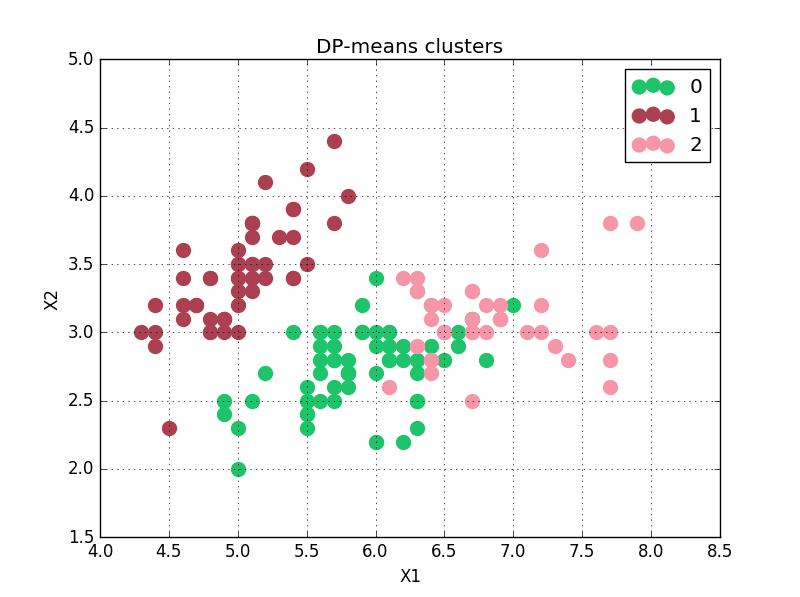
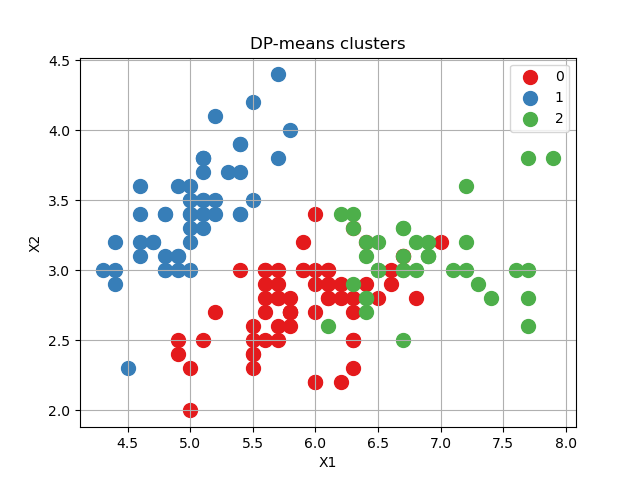
Updated to latest Python version (3.11.2)
Tested with numpy==1.23.5, matplotlib==3.7.1, scikit-learn==1.2.2

diff --git a/python/dpmeans.py b/python/dpmeans.py
@@ -1,5 +1,6 @@
 from sklearn.datasets import load_iris
 import numpy as np
+import matplotlib as mpl
 import matplotlib.pyplot as plt
 import time
 
@@ -37,7 +38,7 @@ class dpmeans:
         mu = np.zeros((k,d))        
         dist = np.inf*np.ones(n)
                 
-        mu[0,:] = X[np.ceil(np.random.rand()*n-1),:]
+        mu[0,:] = X[np.ceil(np.random.rand()*n-1).astype(int),:]
         for i in range(1,k):
             D = X-np.tile(mu[i-1,:],(n,1))
             dist = np.minimum(dist, np.sum(D*D,1))
@@ -55,7 +56,7 @@ class dpmeans:
         
         obj = np.zeros(max_iter)
         em_time = np.zeros(max_iter)
-        print 'running dpmeans...'
+        print('running dpmeans...')
         
         for iter in range(max_iter):
             tic = time.time()
@@ -140,12 +141,13 @@ class dpmeans:
 
     def generate_plots(self,X):
 
+        cmap = mpl.colormaps['Set1']
         plt.close('all')
         plt.figure(0)
         for kk in range(self.K):
             #idx = np.where(self.z == kk)
             plt.scatter(X[self.z == kk,0], X[self.z == kk,1], \
-                        s = 100, marker = 'o', color = np.random.rand(3,1), label = str(kk))
+                        s = 100, marker = 'o', color = cmap(kk), label = str(kk))
         #end for
         plt.xlabel('X1')
         plt.ylabel('X2')
@@ -173,19 +175,19 @@ class dpmeans:
                             
     def display_params(self):
         
-        print 'K = %d'% self.K
-        print 'd = %d'% self.d
-        print 'Labels:'
-        print self.z
-        print 'Means:'
-        print self.mu
-        print 'Sigma:'
-        print self.sigma
-        print 'Counts:'
-        print self.nk
-        print 'Proportions:'
-        print self.pik
-        print 'Lambda: %.2f'% self.Lambda
+        print('K = %d'% self.K)
+        print('d = %d'% self.d)
+        print('Labels:')
+        print(self.z)
+        print('Means:')
+        print(self.mu)
+        print('Sigma:')
+        print(self.sigma)
+        print('Counts:')
+        print(self.nk)
+        print('Proportions:')
+        print(self.pik)
+        print('Lambda: %.2f'% self.Lambda)
 
 
 if __name__ == "__main__":        
@@ -199,6 +201,6 @@ if __name__ == "__main__":
     dp.generate_plots(X)
 
     nmi = dp.compute_nmi(labels,y)    
-    print "NMI: %.4f" % nmi    
+    print("NMI: %.4f" % nmi)
     
         
